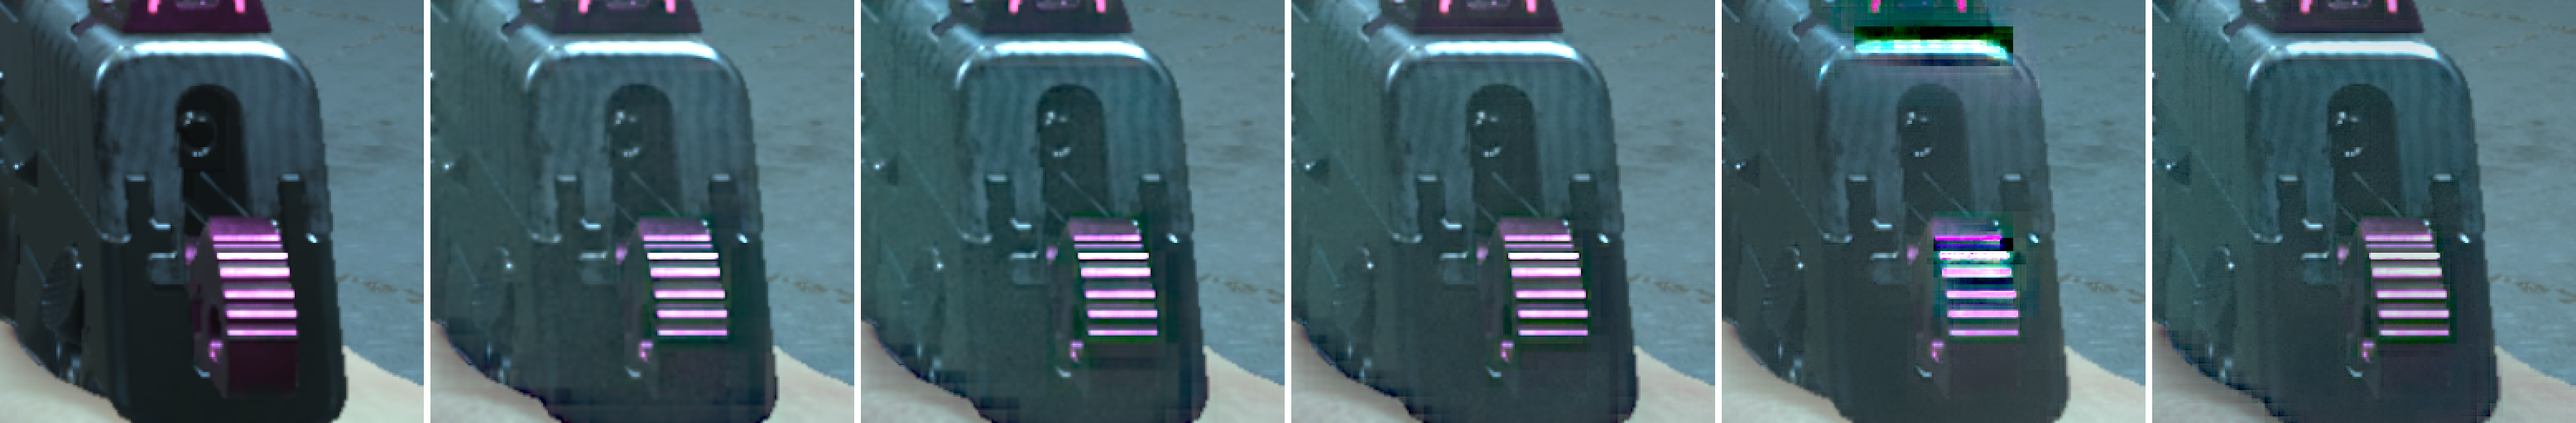
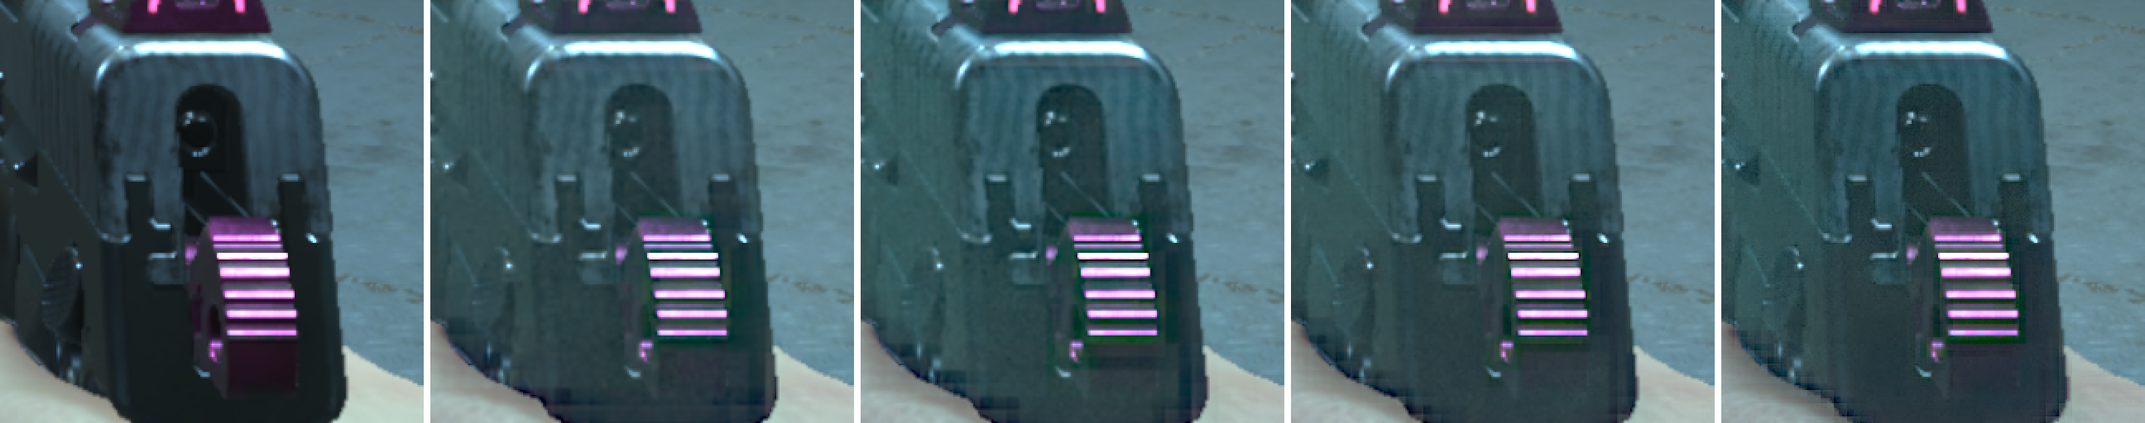
dlssnr_nr: frame = model size path clamps the network input to [0,1] and shows frame + (NR - clamped input)
- imp: ld() for the 1:1 path too (as the resampled path); raw > 1 input made blocky cyan/green/magenta patches
  around highlights (1440p preset, 1280x720 frame = model). exp (LDR): c + gain * (e - stored input), so pixels
  above 1 keep their excess; HDR branch unchanged. Async fallback: same clamp before nr_run.
- test_sync strict reference: `in` (what the network sees) is clamped like the DLL; expected output =
  max(0, raw + NR(in) - in) (= NR(in) wherever the frame is <= 1, so the old expectation is unchanged there).
  Strict PASS 60/60 at 640x360 / 832x468 / 960x540 / 1280x720 / 1920x1080 / 2560x1440 (new model) and
  640x360 .. 1920x1080 (old model).
- handover/hires: 1440p tile re-rendered with the fixed path (render_hires.py composes every size as the DLL now does).

Claude-Session: https://claude.ai/code/session_01TPJrVeGJuX4iCo6r8abWEh

diff --git a/handover/game-ready-sync/dll/test_sync.cpp b/handover/game-ready-sync/dll/test_sync.cpp
@@ -139,7 +139,7 @@ int main(int argc, char** argv) {
     printf("dll state %d after %.0f ms (5 = sync)\n", state(f), now() - t0); if (state(f) != 5 && !guard) { printf("FAIL sync path not active: %s\n", err()); return 4; }
     printf("device after create: 0x%08lx\n", (unsigned long)dev->GetDeviceRemovedReason());
 
-    std::vector<uint16_t> in((size_t)MW * MH * 4), refo((size_t)MW * MH * 4);
+    std::vector<uint16_t> in((size_t)MW * MH * 4), refo((size_t)MW * MH * 4), raw((size_t)MW * MH * 4);   // raw: the frame before the DLL's [0,1] input clamp
     const int DX = getenv("NR_TEST_DX") ? atoi(getenv("NR_TEST_DX")) : getenv("NR_TEST_SHIFT") ? atoi(getenv("NR_TEST_SHIFT")) : 13, DY = getenv("NR_TEST_DY") ? atoi(getenv("NR_TEST_DY")) : 0; const bool OBJ = getenv("NR_TEST_OBJ") != nullptr;
     const UINT gpitch = (W * 4 + 255) & ~255u; std::vector<uint8_t> mvScratch((size_t)gpitch * H), dScratch((size_t)gpitch * H); uint8_t *mvp = mvScratch.data(), *dpp = dScratch.data();   // this frame's motion (RG16F) / depth (R32F) upload rows
     const UINT ow = MW / 3, oh = MH / 3, oy = MH / 3; auto objX = [&](int k) { return (UINT)(((long long)k * DX % (MW - ow) + (MW - ow)) % (MW - ow)); };
@@ -158,7 +158,8 @@ int main(int argc, char** argv) {
             else if (NOISE > 0) { uint16_t t[4]; for (int c = 0; c < 4; c++) { uint32_t hsh = (uint32_t)(k * 73856093) ^ (x * 19349663u) ^ (y * 83492791u) ^ (c * 2654435761u); hsh ^= hsh >> 13; hsh *= 0x5bd1e995u; hsh ^= hsh >> 15;
                     t[c] = c == 3 ? s[c] : f2h(std::max(0.0, h2f(s[c]) * (1.0 + NOISE * ((hsh & 0xFFFF) / 32767.5 - 1.0)))); }   // NR_TEST_NOISE: relative per-frame noise
                   memcpy(d, t, 8); memcpy(upp + (size_t)y * pitch + x * 8, t, 8); }
-            else { memcpy(d, s, 8); memcpy(upp + (size_t)y * pitch + x * 8, s, 8); } } };
+            else { memcpy(d, s, 8); memcpy(upp + (size_t)y * pitch + x * 8, s, 8); }
+            memcpy(&raw[d - in.data()], d, 8); for (int c = 0; c < 3; c++) d[c] = (d[c] & 0x8000) || (d[c] & 0x7C00) == 0x7C00 && (d[c] & 0x3FF) ? 0 : d[c] > 0x3C00 ? 0x3C00 : d[c]; } };   // the DLL (ldr_input=1, LDR) clamps the network input to [0,1]; NaN -> 0
     ID3D12Resource *fmv = nullptr, *fdp = nullptr, *fmu = nullptr, *fdu = nullptr; bool ffirst = true;   // flicker mode: motion/depth textures, their upload buffers (mvp/dpp)
     auto frame = [&](int k, bool exec, double* ms) -> int {   // one game frame; returns evaluate's result, -100 on GPU timeout
         al->Reset(); cl->Reset(al, nullptr);
@@ -187,9 +188,10 @@ int main(int argc, char** argv) {
                 if (r11) unpack_r11g11b10(*(uint32_t*)(rbp + fy * pitch + fx * 4), o); else memcpy(o, rbp + fy * opitch + fx * 8, 8);
                 for (int c = 0; c < 3; c++) ov[c] += h2f(o[c]) / (UP * UP); }
             for (int c = 0; c < 3; c++) {
-                uint16_t b = refo[((size_t)y * MW + x) * 4 + c]; double bv = (b & 0x7C00) == 0x7C00 ? 0 : std::max(0.0, h2f(b));
+                const size_t m = ((size_t)y * MW + x) * 4 + c; uint16_t b = refo[m];   // expected: frame + (NR - clamped input), so values above 1 keep their excess
+                double bv = std::max(0.0, ((b & 0x7C00) == 0x7C00 ? 0 : (double)h2f(b)) + ((raw[m] & 0x7C00) == 0x7C00 ? 0 : (double)h2f(raw[m])) - h2f(in[m]));
                 double e = fabs(ov[c] - bv);
-                { double iv = h2f(in[((size_t)y * MW + x) * 4 + c]); se_o += std::min(e * e, 1.0); se_i += std::min((iv - bv) * (iv - bv), 1.0); }   // UP > 1 metric: PSNR (peak 1, clamped) of NR result vs reference, against doing nothing
+                { double iv = h2f(raw[m]); se_o += std::min(e * e, 1.0); se_i += std::min((iv - bv) * (iv - bv), 1.0); }   // UP > 1 metric: PSNR (peak 1, clamped) of NR result vs reference, against doing nothing
                 if (e > *maxerr) *maxerr = e; if (e > 0.004 + (r11 ? 0.035 : 0.004) * fabs(bv)) { (*beyond)++; bx0 = std::min(bx0, x); by0 = std::min(by0, y); bx1 = std::max(bx1, x); by1 = std::max(by1, y); } } } };   // r11: 5-6 bit mantissa
     if (guard) {   // every frame must come back as the native input, evaluate returning 1
         int bad = 0; double ms = 0;

diff --git a/handover/game-ready-sync/dll/dlssnr_nr.cpp b/handover/game-ready-sync/dll/dlssnr_nr.cpp
@@ -241,7 +241,7 @@ static const char* kSyncHlsl =
 "  return r * 0.25; }\n"
 "[numthreads(8,8,1)] void imp(uint3 id : SV_DispatchThreadID) {\n"
 "  if (id.x >= W || id.y >= H) return; uint FW = FWH & 0xFFFF, FH = FWH >> 16;\n"
-"  float4 c = (FW == W && FH == H) ? (hd() ? ld(col[id.xy]) : col[id.xy]) : colAt((id.xy + 0.5) * float2(FW, FH) / float2(W, H));\n"
+"  float4 c = (FW == W && FH == H) ? ld(col[id.xy]) : colAt((id.xy + 0.5) * float2(FW, FH) / float2(W, H));\n"   // frame == model size: clamped as the resampled path (raw > 1 input made block artifacts)
 "  if ((hdrM & 3) == 1 || (hdrM & 3) == 2) { float3 r = sn(col[min((uint2)((id.xy + 0.5) * float2(FW, FH) / float2(W, H)), uint2(FW - 1, FH - 1))]).rgb; if ((hdrM & 3) == 2 && max(r.r, max(r.g, r.b)) > 1.0) st.InterlockedAdd(20, 1);\n"
 "    if (((id.x | id.y) & 7) == 0) { st.InterlockedAdd(24, (uint)(int)round(clamp(log2(max(dot(r, float3(0.2126, 0.7152, 0.0722)), 1e-6)), -12.0, 12.0) * 256.0)); st.InterlockedAdd(28, 1); } }\n"   // auto: scene-linear HDR evidence (an LDR frame has a few % of specks above 1, HDR much more)
 "  io.Store2((id.y * W + id.x) * 8, uint2(pk(c.r, c.g), pk(c.b, c.a))); }\n"
@@ -301,7 +301,8 @@ static const char* kSyncHlsl =
 "    put(id.xy, float4(cmp(c, gain * d.rgb), c.a)); return; }\n"                       // timeout: native frame
 "  uint2 r = io.Load2(outOff + (id.y * W + id.x) * 8);\n"
 "  float3 e = float3(san(f16tof32(r.x & 0xFFFF)), san(f16tof32(r.x >> 16)), san(f16tof32(r.y & 0xFFFF)));\n"
-"  float3 o = hd() ? cmp(c, gain * (e - T(sn(c).rgb))) : gain == 1.0 ? e : c.rgb + gain * (e - c.rgb);\n"
+"  uint2 q = io.Load2((id.y * W + id.x) * 8); float3 n = float3(f16tof32(q.x & 0xFFFF), f16tof32(q.x >> 16), f16tof32(q.y & 0xFFFF));\n"   // the network's (clamped) input
+"  float3 o = hd() ? cmp(c, gain * (e - T(sn(c).rgb))) : c.rgb + gain * (e - n);\n"   // LDR: frame + edit, so pixels above 1 keep their excess
 "  put(id.xy, float4(max(o, 0.0), c.a)); }\n"
 // ---- temporal history (history=1). hst: after the spin, keep this frame's NR output in proxy space P (+ depth) at st+256+2n.
 // hwp: before the HIP release, write the network's history input into io+histOff (PAD_W x PAD_H x RGB32F, pre-block +0x40): the kept P warped
@@ -469,6 +470,7 @@ static void workerBody(Feature* F) {
                     else if (F->inFmt == (int)DXGI_FORMAT_R8G8B8A8_UNORM) for (unsigned x = 0; x < F->W * 4; x++) ((uint16_t*)d)[x] = f2h(sr[x] / 255.f);
                     else memcpy(d, sr, (size_t)F->W * 8); }
                 sanitizeHalf4((uint16_t*)F->tin.data(), (size_t)F->W * F->H * 4);
+                if (g_ldrIn) { uint16_t* t = (uint16_t*)F->tin.data(); for (size_t i = 0; i < (size_t)F->W * F->H * 4; i++) if ((i & 3) != 3) t[i] = (t[i] & 0x8000) ? 0 : t[i] > 0x3C00 ? 0x3C00 : t[i]; }   // rgb to [0,1] as the sync path (edit = NR - clamped input)
                 applyCond(F);
                 float ms = 0; int r = safeRun(F->ctx, F->tin.data(), F->tout.data(), &ms);
                 if (r) { seterr("nr_run failed (%d)", r); F->state = S_FAILED; return; }

diff --git a/handover/hires/render_hires.py b/handover/hires/render_hires.py
@@ -5,8 +5,8 @@ the frame size exactly as dlssnr_nr.cpp does it (LDR path, gain 1), PNGs + zoome
     (GPU, per size)  NR_BENCH_IN=in_WxH.bin NR_BENCH_OUT=out_WxH.bin nr_bench <dll dir> <data dir> W H 8 1 1
     py -I render_hires.py comp <frame.bin> <FW> <FH> <work dir> <png dir>[,<png dir>...] <WxH>...
 
-Model input (shader imp): frame == model size -> the frame as is; else colAt = 4 bilinear taps at +-FW/W/4 around the
-model pixel centre, each tap saturate()d (LDR). Output (shader exp): frame == model size -> net output; else
+Model input (shader imp): frame == model size -> the frame saturate()d (LDR); else colAt = 4 bilinear taps at +-FW/W/4 around the
+model pixel centre, each tap saturate()d (LDR). Output (shader exp), every size:
 max(frame + bil(out) - bil(in), 0), bil = bilinear at model coords (id + 0.5) * W / FW, NaN -> 0.
 PNGs: clamp [0,1], gamma 1/2.2 (as handover/accuracy). Crops: 2x nearest, left to right native then each size.
 """
@@ -30,16 +30,15 @@ def bil(img, px, py):   # img HxWxC, sample coords (pixel centres at .5), clamp 
 
 def model_input(F, W, H):
     FH, FW = F.shape[:2]
-    if (FW, FH) == (W, H): return F.copy()
-    cx = (np.arange(W) + 0.5) * FW / W; cy = (np.arange(H) + 0.5) * FH / H; sx, sy = FW / W * 0.25, FH / H * 0.25
     L = F.copy(); L[..., :3] = np.clip(L[..., :3], 0, 1)   # ld(): saturate(rgb), alpha as is
+    if (FW, FH) == (W, H): return L
+    cx = (np.arange(W) + 0.5) * FW / W; cy = (np.arange(H) + 0.5) * FH / H; sx, sy = FW / W * 0.25, FH / H * 0.25
     return sum(bil(L, cx + dx * sx, cy + dy * sy) for dx in (-1, 1) for dy in (-1, 1)) * 0.25
 
 
 def composite(F, inp, out):
     FH, FW = F.shape[:2]; H, W = inp.shape[:2]
     out = np.nan_to_num(out, nan=0.0, posinf=65504, neginf=0.0)
-    if (FW, FH) == (W, H): return np.maximum(out[..., :3], 0)
     px = (np.arange(FW) + 0.5) * W / FW; py = (np.arange(FH) + 0.5) * H / FH
     d = np.nan_to_num(bil(out[..., :3], px, py) - bil(inp[..., :3], px, py))
     return np.maximum(F[..., :3] + d, 0)

diff --git a/handover/hires/README.md b/handover/hires/README.md
@@ -2,24 +2,23 @@
 
 One capture (`color_1920x1080.bin` bilinear-upscaled to 2560x1440), new model (310.9.16 `WEIGHTS_CC_SMALL_FP8`), vit_every=1,
 history on (8 static frames), composited to 2560x1440 as the DLL does (`render_hires.py`). PNGs are gamma 2.2. Crops: 256x256
-at 2x, left to right: native | 960x540 | 1280x720 | 1920x1080 | 2560x1440 | 2560x1440 with the input clamped to [0,1].
+at 2x, left to right: native | 960x540 | 1280x720 | 1920x1080 | 2560x1440.
 
 | model res | network ms (RX 6900 XT) | runtime VRAM | mean abs edit (linear / display) | HF energy vs native | HF energy of the edit |
 | --- | --- | --- | --- | --- | --- |
 | 960x540 | 9.68 | 335 MB | 0.0204 / 0.0285 | 0.95x | 2.5e-05 |
 | 1280x720 | 14.93 | 494 MB | 0.0225 / 0.0288 | 1.11x | 4.1e-05 |
 | 1920x1080 | 29.52 | 856 MB | 0.0185 / 0.0247 | 1.11x | 4.9e-05 |
-| 2560x1440 | 51.21 | 1424 MB | 0.0258 / 0.0224 | 1.52x | 6.7e-04 |
-| 2560x1440, input clamped | | | 0.0284 / 0.0255 | 1.19x | 1.6e-04 |
+| 2560x1440 | 51.21 | 1424 MB | 0.0204 / 0.0253 | 1.21x | 1.6e-04 |
 
 Old model 1920x1080: 54.67 ms, 892 MB. HF energy = mean squared Laplacian of the display luma.
 
-**1440p artifact.** When the frame size equals the model size, the DLL feeds the frame to the network unclamped (LDR, HDR
-not latched) and shows the raw network output. Pixels above 1 (1.5 % of this capture, up to 38) then cause blocky cyan/green
-and magenta patches around highlights (`crop_*`, 5th tile); with the input clamped they are gone (6th tile). The resampled
-path (every model size below the frame size) clamps already. Fix (not done here): in the 1:1 path, clamp the input as `ld()`
-does and output `c + gain * (e - saturate(c))` where the frame exceeds 1.
+**Fixed: frame = model size.** The DLL used to feed the frame unclamped to the network when the frame size equals the
+model size (LDR) and showed the raw network output: pixels above 1 (1.5 % of this capture, up to 38) made blocky cyan/green
+and magenta patches (also seen at 1280x720 frame = model). Now that path clamps the input to [0,1] as the resampled path
+does and shows frame + (NR - clamped input), so highlights keep their excess (async fallback: same clamp). Before the fix
+the 1440p row read 0.0258 / 0.0224, 1.52x, 6.7e-04.
 
 1080p geometry: build_plan now pads 1080 rows to 1088 (NVIDIA's `Geometry::fromValid` = dlssnr-pytorch-flex `plan.padding`,
-checked on 17936 sizes); it was 1152. vs PyTorch at 1920x1080: 41.01 -> 41.42 dB. 540p / 720p / 832x468 / 640x360 data
-are byte-identical.
+checked on 17936 sizes); it was 1152. vs PyTorch at 1920x1080: 41.01 -> 41.42 dB. The other sizes keep their padding (960x540 / 640x360 rebuilt
+byte-identical).
